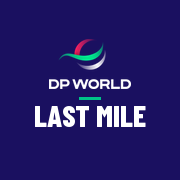
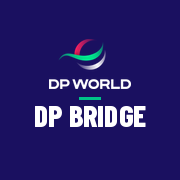
DP Bridge: nombre de la app y Bitácora con buscador de trazabilidad
- La app pasa a llamarse DP Bridge (pestaña, login, cinta, menú, PWA e íconos con
  el kit común); Last Mile queda como el módulo de transporte
- Bitácora en el menú (admin, bodega, operaciones FF): busca por contenedor,
  booking Last Mile, BL/HAWB o cotización y muestra las acciones por usuario, día y
  hora, con la ficha de estados del contenedor; filtros por usuario y fechas
- Cada acción guarda usuario, rol y contenedores tocados (últimas 3.000)

Claude-Session: https://claude.ai/code/session_01HyCigKM8qdecgd3eCXrksJ

Changed region(s): [[0.2222, 0.5833, 0.75, 0.7222]]

diff --git a/last-mile/prototype/index.html b/last-mile/prototype/index.html
@@ -3,14 +3,15 @@
 <head>
 <meta charset="UTF-8">
 <meta name="viewport" content="width=device-width, initial-scale=1.0">
-<title>Last Mile — DP World</title>
+<title>DP Bridge — DP World</title>
 <link rel="stylesheet" href="../../dpworld.css">
 <link rel="manifest" href="manifest.json">
 <meta name="theme-color" content="#1A1060">
 <link rel="apple-touch-icon" href="apple-touch-icon.png">
+<link rel="icon" type="image/png" sizes="32x32" href="favicon-32.png">
 <meta name="apple-mobile-web-app-capable" content="yes">
 <meta name="mobile-web-app-capable" content="yes">
-<meta name="apple-mobile-web-app-title" content="Last Mile">
+<meta name="apple-mobile-web-app-title" content="DP Bridge">
 </head>
 <body class="lm">
 <div class="hdr">
@@ -19,7 +20,7 @@
     <div class="hdr-logo"><img src="../assets/dpworld-logo-fondo-claro.png" alt="DP World"></div>
     <div>
       <div class="hdr-title">DP WORLD</div>
-      <div class="hdr-sub" id="hdr-sub">Last Mile</div>
+      <div class="hdr-sub" id="hdr-sub">DP Bridge</div>
     </div>
   </div>
   <div class="hdr-user"><button type="button" class="hdr-btn hdr-install" data-act="install" hidden><span>INSTALAR</span></button><button type="button" class="hdr-btn hdr-theme" data-act="themeToggle" id="themeBtn"></button><span class="hdr-role" id="hdr-role"></span><button class="hdr-logout" data-act="logout">SALIR</button></div>
@@ -27,7 +28,7 @@
 <div class="gut"><div class="wrap"><nav class="tabs" role="tablist" aria-label="Secciones" id="roles" hidden></nav></div></div>
 <div class="drawer-ov" id="drawerOv" data-act="menuClose" hidden></div>
 <nav class="drawer" id="drawer" aria-label="Menú principal" aria-hidden="true">
-  <div class="drawer-h"><div class="hdr-logo"><img src="../assets/dpworld-logo-fondo-claro.png" alt="DP World"></div><div><div class="hdr-title">DP WORLD</div><div class="hdr-sub">Last Mile</div></div><button type="button" class="mclose" data-act="menuClose" aria-label="Cerrar menú">×</button></div>
+  <div class="drawer-h"><div class="hdr-logo"><img src="../assets/dpworld-logo-fondo-claro.png" alt="DP World"></div><div><div class="hdr-title">DP WORLD</div><div class="hdr-sub">DP Bridge</div></div><button type="button" class="mclose" data-act="menuClose" aria-label="Cerrar menú">×</button></div>
   <div class="drawer-who" id="drawerWho"></div>
   <div class="drawer-items" id="drawerItems"></div>
   <div class="drawer-items drawer-extra"><button type="button" class="drawer-item" data-act="notif" id="drawerNotif"></button></div>
@@ -42,7 +43,7 @@
 <div id="vlogin" hidden>
   <button type="button" class="lg-install hdr-install" data-act="install" hidden><span>Instalar app</span></button>
   <div class="lg-map" aria-hidden="true"><svg id="lgMap"></svg></div>
-  <div class="lg-hero"><div class="lg-kick">DP World · Last Mile</div><h1 class="lg-h1"><span>Conectamos</span> <span>cada entrega</span> <em>contigo.</em></h1><p class="lg-lead">Del patio a la rampa y al puerto: cada contenedor, en vivo.</p></div>
+  <div class="lg-hero"><div class="lg-kick">DP World · DP Bridge</div><h1 class="lg-h1"><span>Conectamos</span> <span>cada entrega</span> <em>contigo.</em></h1><p class="lg-lead">Del patio a la rampa y al puerto: cada contenedor, en vivo.</p></div>
   <svg class="lg-scene" viewBox="0 0 1400 150" preserveAspectRatio="xMidYMax slice" aria-hidden="true">
     <rect y="118" width="1400" height="32" fill="#0b0924"/><rect y="117" width="1400" height="2" fill="#00C389" opacity=".6"/>
     <path d="M0 134h1400" stroke="rgba(255,255,255,.18)" stroke-dasharray="18 14"/>
@@ -58,7 +59,7 @@
   <div class="login-card">
     <div class="login-logo">
       <img src="../assets/dpworld-logo-fondo-claro.png" alt="DP World">
-      <div class="login-sub">Last Mile</div>
+      <div class="login-sub">DP Bridge</div>
       <div class="login-ref">Prototipo · DAL Colón Logistics Park · Panamá</div>
     </div>
     <div class="lg-err" id="lg-err">Usuario o contraseña incorrectos</div>
@@ -147,7 +148,7 @@ function migrate(){
   if(ui.auth&&ui.role==='cliente'&&!ui.client)ui.client=(USERS[ui.user]||{}).client||'k1';
 }
 function syncRef(){CARRIERS=state.carriers;CN=Object.fromEntries(CARRIERS.map(c=>[c.id,c.name]));USERS=Object.fromEntries(state.users.map(x=>[x.u,x]));}
-const SECTIONS={cliente:[['main','Bookings Last Mile'],['cotiz','Cotizaciones'],['emb','Embarques'],['cal','Calendario'],['config','Configuración']],ventas:[['cotiz','Cotizaciones'],['emb','Embarques'],['config','Configuración']],opsff:[['emb','Embarques'],['cotiz','Cotizaciones'],['config','Configuración']],transportista:[['main','Bookings Last Mile'],['cal','Calendario'],['config','Configuración']],bodega:[['main','Bookings Last Mile'],['cal','Calendario'],['rampas','Rampas'],['emb','Llegadas internacionales'],['config','Configuración']],admin:[['main','Panel'],['cotiz','Cotizaciones'],['emb','Embarques'],['cal','Calendario'],['rampas','Rampas'],['reportes','Reportes'],['config','Configuración']]};
+const SECTIONS={cliente:[['main','Bookings Last Mile'],['cotiz','Cotizaciones'],['emb','Embarques'],['cal','Calendario'],['config','Configuración']],ventas:[['cotiz','Cotizaciones'],['emb','Embarques'],['config','Configuración']],opsff:[['emb','Embarques'],['cotiz','Cotizaciones'],['bit','Bitácora'],['config','Configuración']],transportista:[['main','Bookings Last Mile'],['cal','Calendario'],['config','Configuración']],bodega:[['main','Bookings Last Mile'],['cal','Calendario'],['rampas','Rampas'],['emb','Llegadas internacionales'],['bit','Bitácora'],['config','Configuración']],admin:[['main','Panel'],['cotiz','Cotizaciones'],['emb','Embarques'],['cal','Calendario'],['rampas','Rampas'],['reportes','Reportes'],['bit','Bitácora'],['config','Configuración']]};
 
 /* Control de Rampas (bodega CLP): estados de la operación SALIDA mientras el contenedor está en bodega */
 const RAMPS=6, BUFFER=16;
@@ -259,7 +260,7 @@ function samplePdf(lines){
 }
 async function downloadDoc(key,name,ref){
   let blob=null;try{blob=await FILES.get(key);}catch(e){}
-  if(!blob){blob=samplePdf(['DP World · Last Mile','Documento de ejemplo: '+name,'Booking: '+ref,'Generado por el prototipo: el archivo original no se subió en esta demo.']);name=name.replace(/\.[^.]+$/,'')+'_ejemplo.pdf';}
+  if(!blob){blob=samplePdf(['DP World · DP Bridge','Documento de ejemplo: '+name,'Booking: '+ref,'Generado por el prototipo: el archivo original no se subió en esta demo.']);name=name.replace(/\.[^.]+$/,'')+'_ejemplo.pdf';}
   bajar(blob,name);
 }
 
@@ -306,7 +307,8 @@ function seedHistory(now,cargos){
 
 function save(){try{localStorage.setItem(KEY,JSON.stringify({state:state,ui:ui}));}catch(e){}}
 function load(){try{const r=JSON.parse(localStorage.getItem(KEY)||'null');if(r&&r.state&&r.state.bookings){state=r.state;state.hist=state.hist||[];state.incid=state.incid||[];state.settings.auto=state.settings.auto||{on:true,perf:95,revert:15,noShowH:3,reopenMin:30,tel:'+507 6000-0000'};ui=Object.assign(ui,r.ui||{});ui.open=ui.open||{};ui.secOpen=ui.secOpen||{};}}catch(e){state=null;}if(!state||!state.bookings)state=seed();migrate();}
-function log(t){state.log.unshift({at:Date.now(),t:t});state.log=state.log.slice(0,60);}
+function log(t,refs){state.log.unshift({at:Date.now(),t:t,u:ui.auth?ui.user:'',r:ui.auth?ui.role:'',refs:(refs||[]).filter(Boolean)});state.log=state.log.slice(0,3000);}
+const numsDe=cs=>cs.map(c=>c.number).filter(Boolean);
 
 /* derived */
 const B=id=>state.bookings.find(x=>x.id===id);
@@ -438,7 +440,7 @@ function renderRoles(){
   nav.hidden=true;
   document.getElementById('drawerItems').innerHTML=secs.map(x=>'<button type="button" class="drawer-item'+(ui.sec===x[0]?' active':'')+'" data-act="sec" data-k="'+x[0]+'"'+(ui.sec===x[0]?' aria-current="page"':'')+'><span>'+x[1]+'</span>'+(badge[x[0]]?'<span class="badge">'+badge[x[0]]+'</span>':'')+'</button>').join('');
   const cur=(secs.find(x=>x[0]===ui.sec)||secs[0]||[])[1];
-  document.getElementById('hdr-sub').textContent='Last Mile'+(cur?' · '+cur:'');
+  document.getElementById('hdr-sub').textContent='DP Bridge'+(cur?' · '+cur:'');
   const tot=Object.keys(badge).reduce((n,k)=>n+(badge[k]||0),0),bg=document.querySelector('.hdr-burger');
   bg.classList.toggle('has-badge',tot>0);bg.dataset.n=tot||'';
   nav.innerHTML=secs.length<2?'':secs.map(x=>'<button class="tab'+(ui.sec===x[0]?' active':'')+'" role="tab" aria-selected="'+(ui.sec===x[0])+'" data-act="sec" data-k="'+x[0]+'">'+x[1]+(badge[x[0]]?'<span class="badge">'+badge[x[0]]+'</span>':'')+'</button>').join('');
@@ -756,7 +758,7 @@ function citaSave(bid,at0){
   if(at0){cs=mine.filter(c=>c.cita&&c.cita.at===+at0);}
   else{const n=parseInt(document.getElementById('ag-n').value,10),sin=mine.filter(c=>!c.cita);if(!(n>=1&&n<=sin.length)){err.textContent='Indica entre 1 y '+sin.length+' contenedores.';return;}cs=sin.slice(0,n);}
   let freed=0;cs.forEach(c=>{if(c.turno&&at0&&t!==+at0){delete c.turno;freed++;}c.cita={at:t,by:me};});
-  log(CN[me]+(at0?' reprogramó':' agendó')+' retiro de '+cs.length+' cont. de '+b.ref+' para '+fmt(t)+(freed?' · '+freed+' turno(s) liberados':''));
+  log(CN[me]+(at0?' reprogramó':' agendó')+' retiro de '+cs.length+' cont. de '+b.ref+' para '+fmt(t)+(freed?' · '+freed+' turno(s) liberados':''),numsDe(cs));
   notify(['bodega'],at0?'Cita reprogramada':'Cita de retiro',CN[me]+' · '+cs.length+' cont. de '+b.ref+' · '+fmt(t),b.id);
   closeModal();commit();toast('Retiro '+(at0?'reprogramado':'agendado')+': '+fmt(t)+' · '+cs.length+' cont.'+(freed?' Bodega reasignará '+freed+' turno(s).':''));
 }
@@ -788,7 +790,7 @@ function turnoSave(bid,cid){
   let choque=null;state.bookings.forEach(ob=>ob.containers.forEach(oc=>{if(oc!==c&&oc.turno&&oc.turno.rampa===r&&IDX[oc.status]<IDX.bodega&&oc.turno.at<t+dur*HOUR&&oc.turno.at+oc.turno.dur*HOUR>t)choque={b:ob,c:oc};}));
   if(choque){err.textContent=r+' está ocupada de '+hm(choque.c.turno.at)+' a '+hm(choque.c.turno.at+choque.c.turno.dur*HOUR)+' ('+choque.b.ref+' #'+choque.c.seq+'). Elige otra rampa u hora.';return;}
   c.turno={at:t,rampa:r,dur:dur};
-  log('Bodega asignó turno '+r+' '+fmt(t)+' ('+dur+' h) a '+b.ref+' #'+c.seq);
+  log('Bodega asignó turno '+r+' '+fmt(t)+' ('+dur+' h) a '+b.ref+' #'+c.seq,[c.number]);
   notify([c.carrierId],'Turno de rampa',b.ref+' #'+c.seq+' · '+r+' · '+fmt(t),b.id);
   commit();turnoList(b.id);toast('Turno '+r+' · '+fmt(t)+' asignado.');
   if(t+dur*HOUR>b.delTo-3*HOUR)toast('Atención: el turno termina cerca del cierre de la entrega ('+fmt(b.delTo)+').',true);
@@ -887,7 +889,7 @@ function loadXLSX(){return window.XLSX?Promise.resolve(window.XLSX):new Promise(
 const fx=t=>t?new Date(t).toLocaleString('sv-SE',{timeZone:'America/Panama',hour12:false}).slice(0,16):'';
 function rpSheets(){
   const rows=rpRows(),per=(PERIODOS.find(p=>p[0]===ui.rp)||[])[1],yn=(m)=>m.ev?(m.ok?'Sí':'No'):'—';
-  const res=[['DP World · Last Mile · Reporte de cumplimiento'],['Período',per,'Generado',fx(Date.now())],[],['Indicador','Valor %','Medidos','A tiempo / completos','Meta %','Estado']];
+  const res=[['DP World · DP Bridge · Reporte de cumplimiento'],['Período',per,'Generado',fx(Date.now())],[],['Indicador','Valor %','Medidos','A tiempo / completos','Meta %','Estado']];
   [['conf','Confirmados ≤ 1 h'],['ret','Retiro en ventana'],['ent','Entrega en ventana'],['prf','Pruebas completas']].forEach(k=>{const v=kpi(rows,k[0]);res.push([k[1],v.v,v.d,v.n,METAS[k[0]],NIVEL[nivel(v.v,METAS[k[0]])][2]]);});
   res.push([],['No disponible aún','Incidencias por cada 100 contenedores; conciliación semanal (no se registran todavía)']);
   const car=[['Transportista','Contenedores','TEU','Confirmación ≤1 h %','Retiro en ventana %','Entrega en ventana %','Pruebas completas %','Rechazos','Asignados directo']];
@@ -1048,7 +1050,7 @@ function reasignDo(bid,cid,at){
   else sel.forEach(c=>{c.carrierId=a;c.confId=null;c.status='asignado';delete c.cita;delete c.turno;stamp(c,'asignado');});
   const o=document.getElementById('rx-o').value;
   state.incid.push({type:'dp',origen:o,carrierId:cid,bookingId:b.id,ref:b.ref,n:n,motivo:m,at:Date.now(),destino:a});
-  log('DP World '+(a==='pub'?'republicó':'reasignó a '+CN[a])+' '+n+' cont. de '+b.ref+' quitados a '+CN[cid]+' ('+m+')');
+  log('DP World '+(a==='pub'?'republicó':'reasignó a '+CN[a])+' '+n+' cont. de '+b.ref+' quitados a '+CN[cid]+' ('+m+')',numsDe(sel));
   notify([cid],'Contenedores reasignados',n+' cont. de '+b.ref+' ya no están a tu cargo ('+m+').',b.id);
   if(a==='pub')notify(ACT().map(c=>c.id).filter(x=>x!==cid),'Booking republicado',b.ref+' · '+n+' cont. disponibles · retiro hasta '+fmt(b.pickTo),b.id);else notify([a],'Contenedores asignados',n+' cont. de '+b.ref+' · retiro hasta '+fmt(b.pickTo),b.id);
   closeModal();commit();toast(a==='pub'?'Republicado a todos los transportistas.':'Reasignado a '+CN[a]+'.');
@@ -1069,7 +1071,7 @@ function cliCancelDo(bid){
   b.containers=b.containers.filter(c=>quitar.indexOf(c)<0);b.qty-=n;
   state.incid.push({type:'c',carrierId:null,bookingId:b.id,ref:b.ref,n:n,motivo:m,at:Date.now()});
   if(!b.containers.length){state.bookings=state.bookings.filter(x=>x!==b);b.cancelado=true;state.hist.push(b);}
-  log(CL(cli(b)).short+' canceló '+n+' cont. de '+b.ref+' ('+m+')'+(avisar.length?' · aviso a '+avisar.map(x=>CN[x]).join(', '):''));
+  log(CL(cli(b)).short+' canceló '+n+' cont. de '+b.ref+' ('+m+')'+(avisar.length?' · aviso a '+avisar.map(x=>CN[x]).join(', '):''),numsDe(quitar));
   notify(avisar.concat('admin'),'Cancelación del cliente',CL(cli(b)).short+' canceló '+n+' cont. de '+b.ref+' ('+m+').',b.id);
   closeModal();commit();toast(n+' contenedores cancelados.'+(avisar.length?' Se avisó al transportista.':''));
 }
@@ -1235,13 +1237,13 @@ function notify(to,titulo,texto,bk){
   const dest=[...new Set(to.flatMap(x=>USERS[x]?[x]:act.filter(u=>USERS[u].carrier===x||USERS[u].client===x||USERS[u].role===x)))].filter(u=>subs[u]&&u!==ui.user&&ntOn(u,ntKey(USERS[u].role,titulo)));
   dest.forEach(u=>swReg.showNotification(titulo,{body:texto+'\nPara: '+uName(u),icon:'icon-192.png',badge:'badge-96.png',tag:uid('n'),data:{bk:bk||null}}).catch(()=>{}));
 }
-const iosSteps=fin=>'<ol class="ntf-steps"><li>Abre esta página en <b>Safari</b>.</li><li>Toca <b>Compartir</b> (cuadro con flecha hacia arriba).</li><li>Elige <b>Agregar a pantalla de inicio</b> y luego <b>Agregar</b>.</li><li>Abre <b>Last Mile</b> desde el ícono nuevo'+(fin?' y '+fin:'')+'.</li></ol>';
+const iosSteps=fin=>'<ol class="ntf-steps"><li>Abre esta página en <b>Safari</b>.</li><li>Toca <b>Compartir</b> (cuadro con flecha hacia arriba).</li><li>Elige <b>Agregar a pantalla de inicio</b> y luego <b>Agregar</b>.</li><li>Abre <b>DP Bridge</b> desde el ícono nuevo'+(fin?' y '+fin:'')+'.</li></ol>';
 /* botón Instalar: usa el aviso nativo del navegador cuando existe; si no, muestra los pasos */
 function installApp(){
-  if(installEv){installEv.prompt();installEv.userChoice.then(c=>{installEv=null;if(c.outcome==='accepted')toast('Last Mile se está instalando.');installBtns();});return;}
-  const body=isIOS()?'<p style="margin:0">Así queda Last Mile en tu pantalla de inicio, a pantalla completa y con notificaciones:</p>'+iosSteps(''):
-    '<p style="margin:0">Este navegador no ofreció la instalación automática. Puedes hacerlo desde su menú:</p><ul class="ntf-steps"><li><b>Chrome o Edge en PC:</b> ícono de instalar en la barra de dirección, o menú ⋮ → <b>Instalar Last Mile</b>.</li><li><b>Android:</b> menú ⋮ → <b>Instalar app</b> o <b>Agregar a pantalla de inicio</b>.</li><li><b>Safari en Mac:</b> Archivo → <b>Agregar al Dock</b>.</li></ul>';
-  openModal('<div class="sh-h"><div><span class="flbl">Este dispositivo</span><h3 class="mtitle">Instalar Last Mile</h3></div><button class="mclose" data-act="close" aria-label="Cerrar">×</button></div><div class="sh-b form">'+body+'</div><div class="sh-f"><button class="btn-p btn-navy inl" data-act="close">Entendido</button></div>',true);
+  if(installEv){installEv.prompt();installEv.userChoice.then(c=>{installEv=null;if(c.outcome==='accepted')toast('DP Bridge se está instalando.');installBtns();});return;}
+  const body=isIOS()?'<p style="margin:0">Así queda DP Bridge en tu pantalla de inicio, a pantalla completa y con notificaciones:</p>'+iosSteps(''):
+    '<p style="margin:0">Este navegador no ofreció la instalación automática. Puedes hacerlo desde su menú:</p><ul class="ntf-steps"><li><b>Chrome o Edge en PC:</b> ícono de instalar en la barra de dirección, o menú ⋮ → <b>Instalar DP Bridge</b>.</li><li><b>Android:</b> menú ⋮ → <b>Instalar app</b> o <b>Agregar a pantalla de inicio</b>.</li><li><b>Safari en Mac:</b> Archivo → <b>Agregar al Dock</b>.</li></ul>';
+  openModal('<div class="sh-h"><div><span class="flbl">Este dispositivo</span><h3 class="mtitle">Instalar DP Bridge</h3></div><button class="mclose" data-act="close" aria-label="Cerrar">×</button></div><div class="sh-b form">'+body+'</div><div class="sh-f"><button class="btn-p btn-navy inl" data-act="close">Entendido</button></div>',true);
 }
 // se oculta cuando ya se abre como app instalada
 const installBtns=()=>document.querySelectorAll('.hdr-install').forEach(b=>b.hidden=standalone());
@@ -1389,7 +1391,7 @@ function cfgDelDo(kind,id){
 /* ===== WhatsApp flotante ===== */
 function waMenu(open){
   const m=document.getElementById('waMenu'),b=document.querySelector('.wa-btn');
-  if(open){const x=USERS[ui.user]||{},msg='Hola DP World, soy '+(x.n||ui.user)+' ('+empresa(x)+') desde Last Mile. ';
+  if(open){const x=USERS[ui.user]||{},msg='Hola DP World, soy '+(x.n||ui.user)+' ('+empresa(x)+') desde DP Bridge. ';
     // celular: abre la app de WhatsApp directo (wa.me en el navegador puede caer en WhatsApp Web sin sesión)
     // PC: elegir app de escritorio o WhatsApp Web
     const movil=isIOS()||/Android/i.test(navigator.userAgent),q=d=>'phone='+d+'&text='+encodeURIComponent(msg),app=d=>'whatsapp://send?'+q(d);
@@ -1721,6 +1723,37 @@ function seedFF(){
   return {quotes:qs,ships:ships};
 }
 
+/* ===== bitácora: trazabilidad de acciones por usuario, día y hora ===== */
+const bNorm=x=>String(x||'').toUpperCase().replace(/[\s\-./]/g,'');
+function vBit(){
+  const us=[...new Set(state.log.map(e=>e.u).filter(Boolean))].sort();
+  return '<section class="view"><div class="vhead"><div><h1 class="sc-title">Bitácora</h1><p class="sc-sub">Todas las acciones con usuario, día y hora. Busca un contenedor, un booking, un BL o una cotización para ver su trazabilidad completa.</p></div></div>'+
+   '<div class="panel bit-f"><label class="f bit-q"><span class="flbl">Buscar</span><input class="fin mono" id="bitQ" type="search" autocomplete="off" placeholder="Ej. MSKU 482915-3, MAEU 258741963, HBL DPWPA-24118, COT-2610-021" value="'+esc(ui.bitQ||'')+'"></label>'+
+   '<label class="f"><span class="flbl">Usuario</span><select class="fin" id="bitU"><option value="">Todos</option>'+us.map(u=>'<option value="'+esc(u)+'"'+(ui.bitU===u?' selected':'')+'>'+esc(u)+' · '+esc(uName(u))+'</option>').join('')+'</select></label>'+
+   '<label class="f"><span class="flbl">Desde</span><input class="fin" type="date" id="bitD" value="'+esc(ui.bitD||'')+'"></label><label class="f"><span class="flbl">Hasta</span><input class="fin" type="date" id="bitH" value="'+esc(ui.bitH||'')+'"></label></div>'+
+   '<div id="bitRes">'+bitRes()+'</div></section>';
+}
+function bitRes(){
+  const q=bNorm(ui.bitQ),d=ui.bitD?fromPa(ui.bitD+'T00:00'):0,h=ui.bitH?fromPa(ui.bitH+'T23:59'):Infinity;
+  // coincidencias: contenedores y bookings (activos e históricos), embarques y cotizaciones
+  let ficha='';
+  if(q.length>=4){
+    const cs=[];state.bookings.concat(state.hist||[]).forEach(b=>b.containers.forEach(c=>{if(c.number&&bNorm(c.number).includes(q))cs.push({b:b,c:c});}));
+    const bks=state.bookings.concat(state.hist||[]).filter(b=>bNorm(b.ref).includes(q));
+    const shs=(state.ships||[]).filter(x=>bNorm(x.docRef).includes(q)||bNorm(x.ref).includes(q)),qs=(state.quotes||[]).filter(x=>bNorm(x.num).includes(q));
+    ficha=cs.slice(0,6).map(x=>'<div class="bit-card"><div class="bit-ch"><b class="mono">'+esc(x.c.number)+'</b>'+tipoTag(x.b)+'<span class="muted">Booking '+esc(x.b.ref)+' · #'+x.c.seq+' · '+esc(CN[x.c.carrierId]||'Sin transportista')+'</span>'+statusPill(x.c.status,x.c,x.b)+'</div>'+
+      '<div class="bit-st">'+stagesOf(x.b).filter(s=>(x.c.t||{})[s.k]).map(s=>'<span><b>'+esc(lbl(x.b,s.k))+'</b>'+fmt(x.c.t[s.k])+'</span>').join('')+'</div>'+
+      ([x.c.driver?'Chofer '+x.c.driver+' · '+x.c.plate:'',x.c.rampa?'Rampa '+x.c.rampa:'',x.c.seal?'Sello '+x.c.seal:'',x.c.recv&&x.c.recv.wms?'Recepción WMS '+x.c.recv.wms:''].filter(Boolean).map(esc).join(' · ').replace(/^(.+)$/,'<div class="muted bit-x">$1</div>'))+'</div>').join('')+
+     bks.slice(0,4).map(b=>'<div class="bit-card"><div class="bit-ch"><b class="mono">'+esc(b.ref)+'</b>'+tipoTag(b)+'<span class="muted">Booking Last Mile · '+b.qty+' × '+esc(b.size)+' · '+esc(b.naviera)+'</span>'+stagePill(b,ui.role)+'</div>'+trk(b)+'</div>').join('')+
+     shs.slice(0,4).map(x=>'<div class="bit-card"><div class="bit-ch"><b class="mono">'+esc(x.docRef)+'</b>'+ffTag(x.modo)+'<span class="muted">'+esc(x.origen)+' → '+esc(x.destino)+' · '+esc(CL(x.clientId).short)+'</span>'+sPill(x)+'</div>'+ffTrk(x)+'</div>').join('')+
+     qs.slice(0,4).map(x=>'<div class="bit-card"><div class="bit-ch"><b class="mono">'+esc(x.num)+'</b>'+ffTag(x.modo)+'<span class="muted">'+esc(x.origen)+' → '+esc(x.destino)+' · '+esc(CL(x.clientId).short)+'</span>'+qPill(x)+'</div></div>').join('');
+  }
+  const all=state.log.filter(e=>e.at>=d&&e.at<=h&&(!ui.bitU||e.u===ui.bitU)&&(!q||bNorm(e.t).includes(q)||(e.refs||[]).some(x=>bNorm(x).includes(q)))),L=all.slice(0,300);
+  return (ficha?'<div class="bit-cards">'+ficha+'</div>':'')+
+   '<div class="sec"><div class="psect-hdr"><h2 class="psect-title">Acciones</h2><span class="psect-cnt">'+all.length+'</span></div>'+
+   (L.length?'<div class="tw"><table class="t bit-t"><thead><tr><th>Día y hora</th><th>Usuario</th><th>Rol</th><th>Acción</th></tr></thead><tbody>'+L.map(e=>'<tr><td data-l="Día y hora" class="mono">'+fmt(e.at)+'</td><td data-l="Usuario">'+(e.u?'<b>'+esc(e.u)+'</b> <span class="muted">'+esc(uName(e.u))+'</span>':'<span class="muted">Sistema / datos de ejemplo</span>')+'</td><td data-l="Rol">'+esc(ROLES[e.r]||'—')+'</td><td data-l="Acción">'+esc(e.t)+((e.refs||[]).length&&!q?'<div class="muted bit-x">'+esc(e.refs.join(' · '))+'</div>':'')+'</td></tr>').join('')+'</tbody></table></div>'+(all.length>L.length?'<p class="muted" style="font-size:12px">Mostrando las 300 más recientes de '+all.length+'. Usa los filtros para acotar.</p>':''):'<div class="empty">'+(q?'Sin acciones registradas para «'+esc(ui.bitQ)+'».':'Sin acciones en este período.')+'</div>')+'</div>';
+}
+
 /* ===== modal / toast ===== */
 let lastFocus=null;
 function openModal(html,narrow){const ov=document.getElementById('ov'),sh=document.getElementById('sheet');lastFocus=document.activeElement;sh.className='sheet'+(narrow?' narrow':'');sh.innerHTML=html;ov.hidden=false;const f=sh.querySelector('input,select,textarea,button.btn');if(f)f.focus();}
@@ -1762,7 +1795,7 @@ function render(){
   renderRoles();
   const v=document.getElementById('view');
   const sy=window.scrollY;
-  v.innerHTML=ui.sec==='cotiz'?vCotiz():ui.sec==='emb'?vEmb():ui.sec==='config'?vConfig():ui.sec==='cal'?vCal():ui.sec==='reportes'?vReportes():ui.sec==='rampas'?vRampas():ui.role==='cliente'?vCliente():ui.role==='bodega'?vBodega():ui.role==='transportista'?vTrans():vAdmin();
+  v.innerHTML=ui.sec==='bit'?vBit():ui.sec==='cotiz'?vCotiz():ui.sec==='emb'?vEmb():ui.sec==='config'?vConfig():ui.sec==='cal'?vCal():ui.sec==='reportes'?vReportes():ui.sec==='rampas'?vRampas():ui.role==='cliente'?vCliente():ui.role==='bodega'?vBodega():ui.role==='transportista'?vTrans():vAdmin();
   accordion(v);
   window.scrollTo(0,sy);
   tickClocks();
@@ -1829,7 +1862,7 @@ document.addEventListener('click',e=>{
    case 'notif':menu(false);ov.dataset.detail='';notifSheet();break;
    case 'pushOn':pushActivate();break;
    case 'pushOff':{const s=pushSubs();delete s[ui.user];pushSet(s);renderRoles();notifSheet();toast('Notificaciones desactivadas para '+uName(ui.user)+'.');break;}
-   case 'pushTest':swReg.showNotification('Prueba de Last Mile',{body:'Así te llegarán los avisos.\nPara: '+uName(ui.user),icon:'icon-192.png',badge:'badge-96.png',tag:uid('n')}).catch(()=>{});toast('Aviso de prueba enviado.');break;
+   case 'pushTest':swReg.showNotification('Prueba de DP Bridge',{body:'Así te llegarán los avisos.\nPara: '+uName(ui.user),icon:'icon-192.png',badge:'badge-96.png',tag:uid('n')}).catch(()=>{});toast('Aviso de prueba enviado.');break;
    case 'install':installApp();break;
    case 'themeToggle':ui.theme=theme()==='light'?'dark':'light';save();render();break;
    case 'sec':closeModal();if(document.getElementById('drawer').classList.contains('open'))menu(false);ui.sec=t.dataset.k;save();render();window.scrollTo(0,0);break;
@@ -1887,7 +1920,7 @@ document.addEventListener('click',e=>{
    case 'approve':case 'reject':{const f=state.confs.find(x=>x.id===t.dataset.id),b=B(f.bookingId);
      b.containers.filter(c=>c.confId===f.id&&c.status==='confirmado').forEach(c=>{if(a==='approve'){c.status='asignado';stamp(c,'asignado');}else{c.status='publicado';c.carrierId=null;c.confId=null;if(c.t)delete c.t.confirmado;}});
      f.status=a==='approve'?'aprobada':'rechazada';
-     log('DP World '+(a==='approve'?'aprobó':'rechazó')+' '+f.qty+' cont. de '+b.ref+' para '+CN[f.carrierId]);
+     log('DP World '+(a==='approve'?'aprobó':'rechazó')+' '+f.qty+' cont. de '+b.ref+' para '+CN[f.carrierId],numsDe(b.containers.filter(c=>c.confId===f.id)));
      notify([f.carrierId],a==='approve'?'Confirmación aprobada':'Confirmación rechazada',f.qty+' cont. de '+b.ref+(a==='approve'?' · ya puedes agendar el retiro.':' · vuelven a publicarse.'),b.id);if(a==='approve')notify([cli(b)],'Transporte asignado',f.qty+' cont. de '+b.ref+' ya tienen transporte DP World.',b.id);
      commit();toast(a==='approve'?'Aprobado. '+CN[f.carrierId]+' ya puede operar.':'Rechazado. Los contenedores vuelven a publicarse.',a!=='approve');break;}
    case 'force':{const b=B(t.dataset.id),cid=document.getElementById('asg-'+b.id).value,n=openCount(b);
@@ -1900,12 +1933,12 @@ document.addEventListener('click',e=>{
    case 'doAdv':doAdv(t.dataset.b,t.dataset.c,t.dataset.to);break;
    case 'bulk':{const b=B(t.dataset.b),to=t.dataset.to;const cs=b.containers.filter(c=>c.carrierId===ui.carrier&&c.status===t.dataset.from);
      const sp=stepOf(b,to);cs.forEach(c=>{c.status=to;stamp(c,to);if(sp.proof)c.proofs.push({type:sp.proof,name:sp.proof.replace(/\W+/g,'_')+'_'+c.number.replace(/\W/g,'')+'.pdf',by:'transportista'});});
-     log(CN[ui.carrier]+' marcó '+cs.length+' cont. de '+b.ref+' como '+lbl(b,to).toLowerCase());notifyAdv(b,to,cs.length,ui.carrier,cs.length===1?cs[0].number:'');commit();toast(cs.length+' contenedores actualizados a «'+lbl(b,to)+'».');break;}
+     log(CN[ui.carrier]+' marcó '+cs.length+' cont. de '+b.ref+' como '+lbl(b,to).toLowerCase(),numsDe(cs));notifyAdv(b,to,cs.length,ui.carrier,cs.length===1?cs[0].number:'');commit();toast(cs.length+' contenedores actualizados a «'+lbl(b,to)+'».');break;}
    case 'reset':state=seed();migrate();FILES.clear().catch(()=>{});expSeen=new Set();save();closeModal();render();toast('Demo reiniciada con datos de ejemplo.');break;
   }
 });
-document.addEventListener('change',e=>{const t=e.target;if(t.closest&&t.closest('#qfForm')){qVis();}if(t.id==='cf-role'){document.getElementById('cf-emp').innerHTML=empOpts(t.value);document.getElementById('cf-emp-w').hidden=!/cliente|transportista/.test(t.value);}if(t.dataset&&t.dataset.act==='cfgShow'){document.getElementById('cf-pass').type=t.checked?'text':'password';}if(t.id==='rx-o'){document.getElementById('rx-m').innerHTML=MOTIVOS[t.value].map(x=>'<option>'+x+'</option>').join('');}if(t.dataset&&t.dataset.act==='waSet'){const k=t.dataset.k,v=t.value.trim(),c=WA.find(x=>x[0]===k)[1];const ok=!v||waGrupo(v)||(!/[a-z]/i.test(v)&&waIntl(v).length>=10&&waIntl(v).length<=15);if(!ok){toast('Revisa '+c+': pon un celular de WhatsApp (6123-4567 o +507 6123-4567) o el enlace de un grupo (https://chat.whatsapp.com/…).',true);return;}if(v&&!waGrupo(v)){t.value=waFmt(waIntl(v));}const val=t.value.trim();if(k==='coord'){if(!val){toast('Coordinación necesita un número.',true);t.value=waNum(k);return;}state.settings.auto.tel=val;}else state.settings.wa[k]=val;log('WhatsApp de '+c+': '+(v||'sin número'));save();toast('Número de '+c+' guardado.');}});
-document.addEventListener('input',e=>{const t=e.target;if(t.id==='cq'){const box=document.getElementById('rgBox');if(box){const q=parseInt(t.value,10)||0;box.innerHTML=reglasHtml(reglas(B(box.dataset.b),ui.carrier,q));}}});
+document.addEventListener('change',e=>{const t=e.target;if(['bitU','bitD','bitH'].indexOf(t.id)>=0){ui[t.id]=t.value;save();document.getElementById('bitRes').innerHTML=bitRes();return;}if(t.closest&&t.closest('#qfForm')){qVis();}if(t.id==='cf-role'){document.getElementById('cf-emp').innerHTML=empOpts(t.value);document.getElementById('cf-emp-w').hidden=!/cliente|transportista/.test(t.value);}if(t.dataset&&t.dataset.act==='cfgShow'){document.getElementById('cf-pass').type=t.checked?'text':'password';}if(t.id==='rx-o'){document.getElementById('rx-m').innerHTML=MOTIVOS[t.value].map(x=>'<option>'+x+'</option>').join('');}if(t.dataset&&t.dataset.act==='waSet'){const k=t.dataset.k,v=t.value.trim(),c=WA.find(x=>x[0]===k)[1];const ok=!v||waGrupo(v)||(!/[a-z]/i.test(v)&&waIntl(v).length>=10&&waIntl(v).length<=15);if(!ok){toast('Revisa '+c+': pon un celular de WhatsApp (6123-4567 o +507 6123-4567) o el enlace de un grupo (https://chat.whatsapp.com/…).',true);return;}if(v&&!waGrupo(v)){t.value=waFmt(waIntl(v));}const val=t.value.trim();if(k==='coord'){if(!val){toast('Coordinación necesita un número.',true);t.value=waNum(k);return;}state.settings.auto.tel=val;}else state.settings.wa[k]=val;log('WhatsApp de '+c+': '+(v||'sin número'));save();toast('Número de '+c+' guardado.');}});
+document.addEventListener('input',e=>{const t=e.target;if(t.id==='bitQ'){ui.bitQ=t.value;save();document.getElementById('bitRes').innerHTML=bitRes();return;}if(t.id==='cq'){const box=document.getElementById('rgBox');if(box){const q=parseInt(t.value,10)||0;box.innerHTML=reglasHtml(reglas(B(box.dataset.b),ui.carrier,q));}}});
 document.addEventListener('change',e=>{
   const t=e.target, a=t.dataset&&t.dataset.act;
   if(a==='autoSet'){const v=parseInt(t.value,10);if(v>=+t.min&&v<=+t.max){state.settings.auto[t.dataset.k]=v;log('Aprobación automática: '+t.dataset.k+' = '+v);commit();}return;}

diff --git a/dpworld.css b/dpworld.css
@@ -948,3 +948,22 @@ main.lm-main{padding-block:18px 56px}
 .lm .trk-d.late{color:#ff6680;font-weight:700}
 .lm.theme-light .trk-d.late{color:var(--red)}
 @media (max-width:520px){.lm .trk-d{font-size:8.5px;white-space:normal}}
+
+/* bitácora */
+.lm .bit-f{display:grid;grid-template-columns:2fr 1fr 1fr 1fr;gap:10px;align-items:end}
+.lm .bit-cards{display:grid;gap:10px;margin-bottom:14px}
+.lm .bit-card{display:grid;gap:10px;padding:12px 14px;border:1px solid var(--b1);border-radius:var(--r);background:var(--card)}
+.lm .bit-ch{display:flex;flex-wrap:wrap;align-items:center;gap:8px}
+.lm .bit-ch b{font-size:16px}
+.lm .bit-st{display:flex;flex-wrap:wrap;gap:8px}
+.lm .bit-st span{display:grid;gap:1px;padding:6px 10px;border:1px solid var(--b1);border-radius:var(--r2);background:var(--b0);font-size:12.5px}
+.lm .bit-st b{font-family:'Barlow Condensed',sans-serif;font-size:12px;letter-spacing:.4px;text-transform:uppercase;color:var(--t2)}
+.lm .bit-x{font-size:12px}
+.lm .bit-t td{vertical-align:top}
+@media (max-width:820px){.lm .bit-f{grid-template-columns:1fr 1fr}.lm .bit-q{grid-column:1/-1}}
+@media (max-width:640px){
+  .lm .bit-t,.lm .bit-t tbody{display:block;width:100%;min-width:0!important}.lm .bit-t thead{display:none}
+  .lm .bit-t tr{display:grid;grid-template-columns:1fr 1fr;gap:4px 12px;padding:10px 12px;border-top:1px solid var(--b1)}
+  .lm .bit-t td{display:block;padding:0;border:0}.lm .bit-t td::before{content:attr(data-l);display:block;font-family:'Barlow Condensed',sans-serif;font-size:10px;font-weight:700;letter-spacing:1px;text-transform:uppercase;color:var(--t3)}
+  .lm .bit-t td:last-child{grid-column:1/-1}
+}

diff --git a/last-mile/prototype/sw.js b/last-mile/prototype/sw.js
@@ -1,4 +1,4 @@
-/* Last Mile · service worker
+/* DP Bridge · service worker
    Muestra los avisos push aunque la app esté cerrada y, al tocarlos, abre el booking.
    En el prototipo los avisos los genera la misma app; en producción llegan del
    servidor (Supabase Edge Function con web-push) por el evento 'push'. */
@@ -8,7 +8,7 @@ self.addEventListener('activate', e => e.waitUntil(self.clients.claim()));
 self.addEventListener('push', e => {
   let d = {};
   try { d = e.data ? e.data.json() : {}; } catch (err) { d = { texto: e.data && e.data.text() }; }
-  e.waitUntil(self.registration.showNotification(d.titulo || 'Last Mile · DP World', {
+  e.waitUntil(self.registration.showNotification(d.titulo || 'DP Bridge · DP World', {
     body: d.texto || '', icon: 'icon-192.png', badge: 'badge-96.png',
     tag: d.tag, data: { bk: d.bk || null }
   }));

diff --git a/last-mile/LAST_MILE_SPEC.md b/last-mile/LAST_MILE_SPEC.md
@@ -1,4 +1,4 @@
-# Last Mile — Especificación para integrar con Control de Rampas
+# DP Bridge · Last Mile — Especificación para integrar con Control de Rampas
 
 Módulo de coordinación de transporte de contenedores (retiro de vacío → carga en Bodega DP World → entrega de lleno en terminal) para clientes 3PL, empezando por CERNAC. Su objetivo es reemplazar la coordinación manual que hoy se hace por correo y WhatsApp. El prototipo navegable está en `prototype/index.html`: es un solo archivo HTML/JS que guarda los datos en localStorage.
 
@@ -238,6 +238,15 @@ En la bandeja se ven la tasa de cierre y el tiempo de respuesta.
 | No | No | Retirado por el cliente |
 
 **Pendiente:** para que Last Mile entregue en la dirección del cliente, hoy el booking siempre va a CLP; falta también el último tramo de LCL y aéreo en Last Mile.
+
+## Bitácora
+- **Acceso:** menú ☰ → Bitácora, para admin, bodega y operaciones FF.
+- **Qué registra cada acción:** día y hora, usuario y rol, y los contenedores que tocó.
+- **Buscador:** contenedor, booking Last Mile, BL o HAWB del embarque, o número de cotización. No importan espacios, guiones ni mayúsculas.
+- **Filtros:** por usuario y por rango de fechas.
+- **Ficha del contenedor:** cada estado con su fecha, más chofer y placa, rampa, sello y número de recepción del WMS.
+- **Ficha de booking o embarque:** su tracking.
+- **Límites:** guarda las últimas 3.000 acciones y muestra las 300 más recientes que coincidan.
 
 ## Configuración
 - **Ubicación:** menú ☰ → Configuración, para todos los roles.
